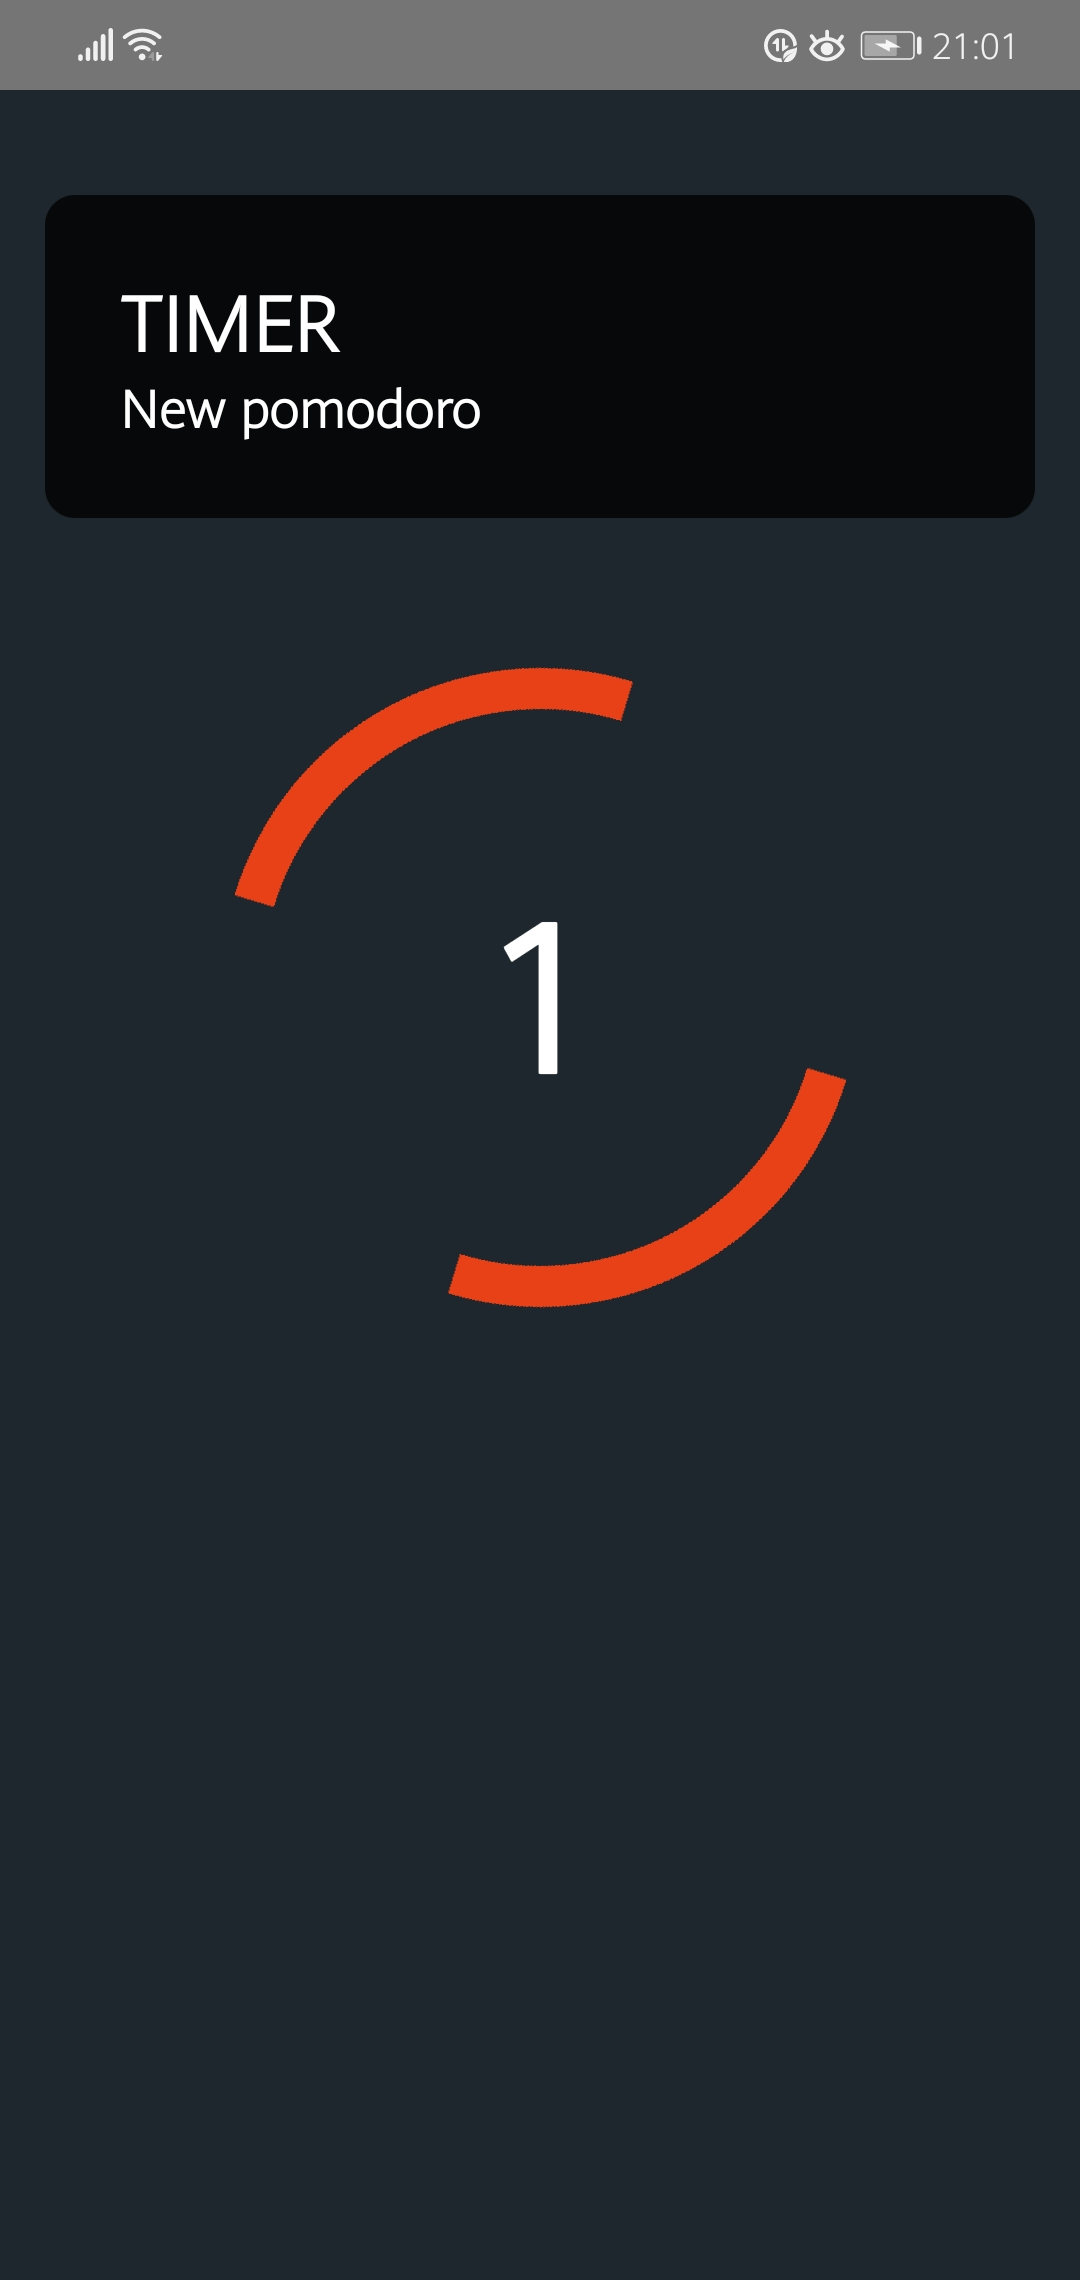
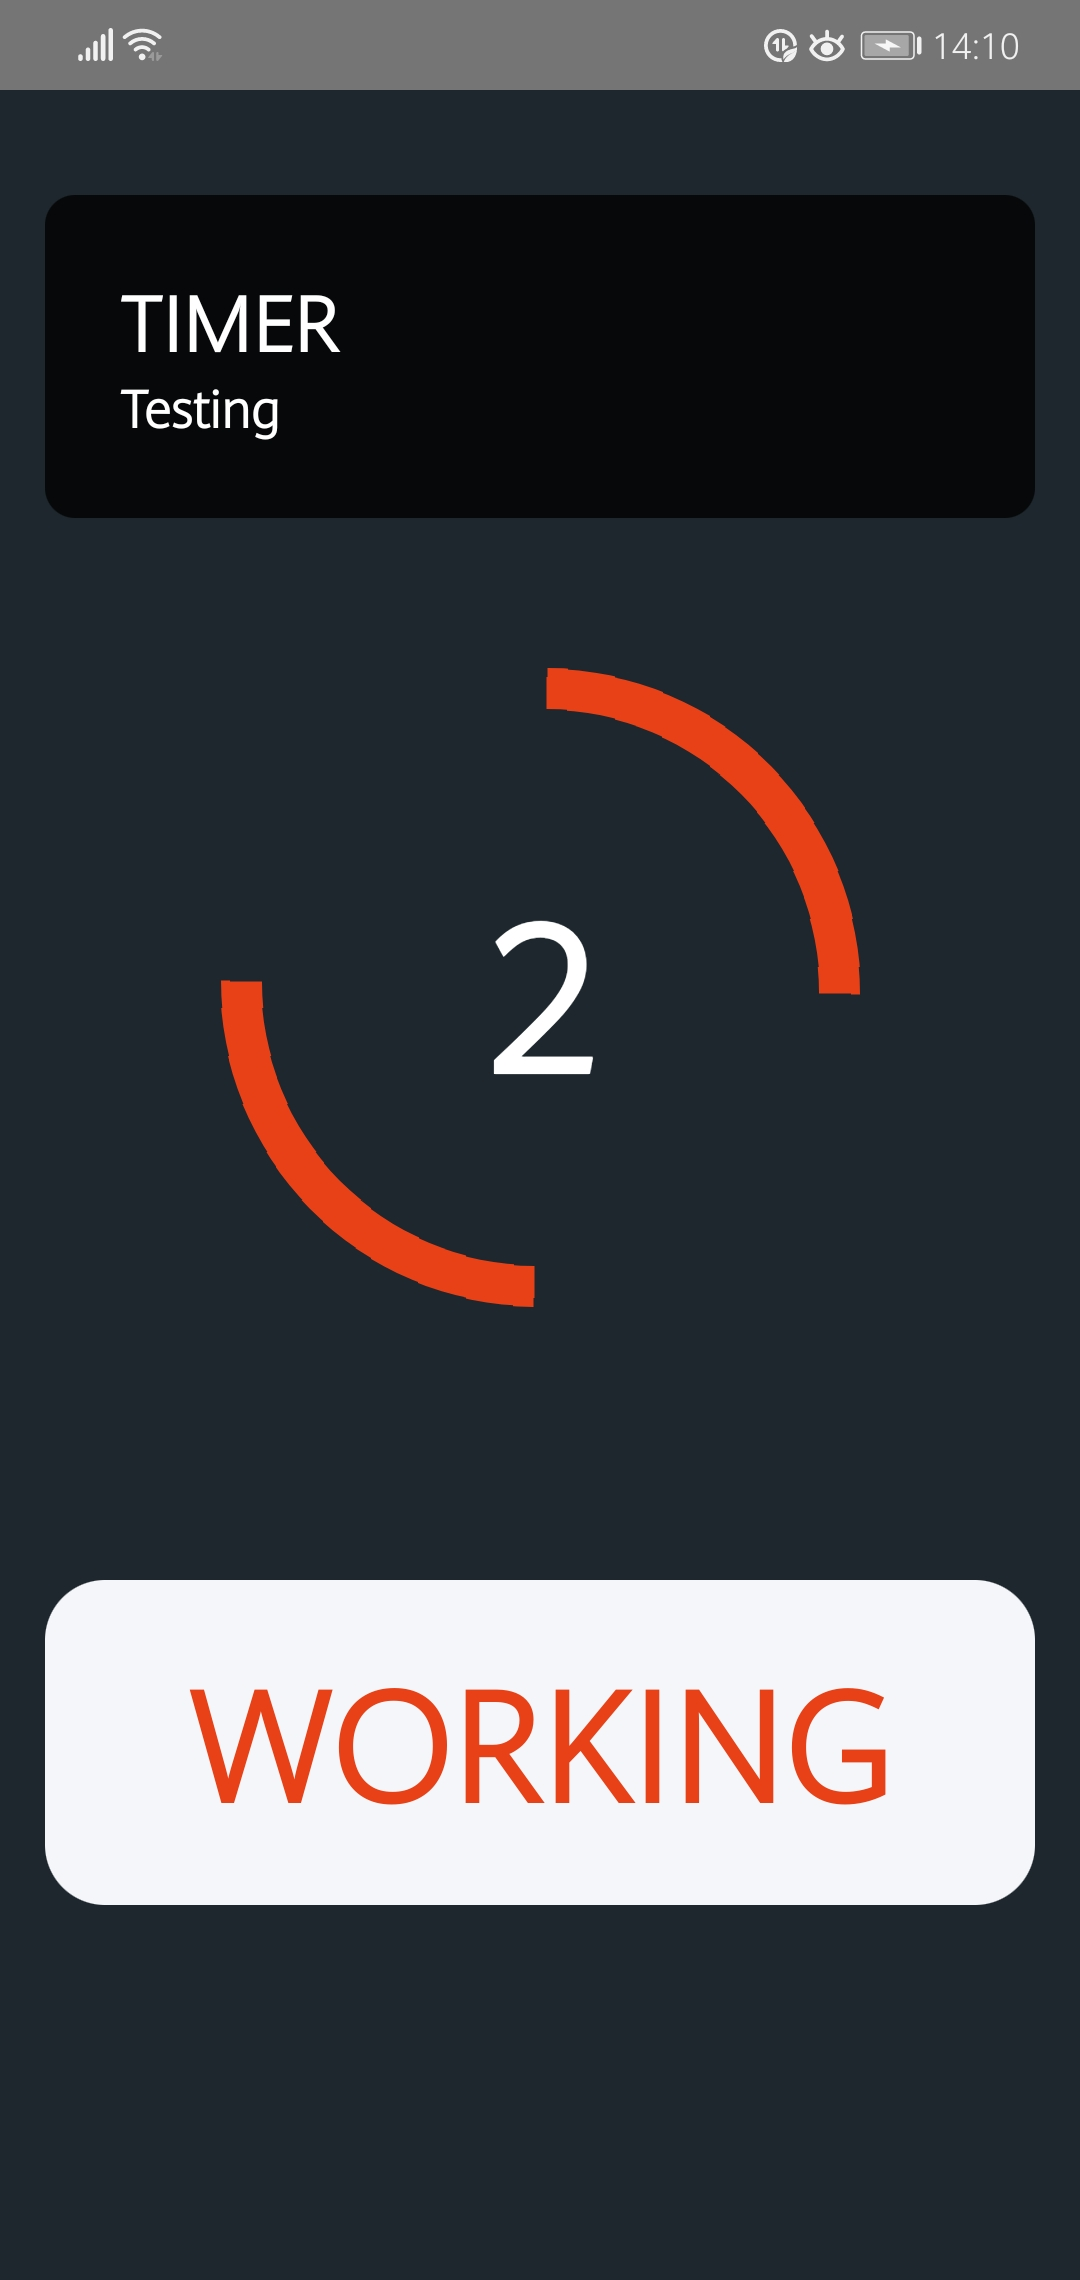
feat: introducing timer seconds counter and current stage title. fix: removed everything about useless advancedMode option

diff --git a/LR2/PomodoroTimer/screens/RunTimerScreen.tsx b/LR2/PomodoroTimer/screens/RunTimerScreen.tsx
@@ -1,25 +1,26 @@
-import { Animated, Easing, StyleSheet, Text, View } from 'react-native'
+import { StyleSheet, Text, View } from 'react-native'
 import { ACCENT_RED_COLOR, ITEMS_BG_COLOR } from '../utils/styleConstants'
-import { useDispatch, useSelector } from 'react-redux'
+import { useSelector } from 'react-redux'
 import { RootState } from '../state/store'
 import { Theme } from '../types/Theme'
 import { useIsFocused, useNavigation } from '@react-navigation/native'
 import React from 'react'
-import { resetCurrentlyEditedTimer } from '../state/slices/general'
 import { getTimerById } from '../utils/getTimerById'
 import { Timer } from '../types/Timer'
 import { storage } from '../state/storage'
-import Svg, { Path } from 'react-native-svg'
 import { TimerAnimation } from '../components/timerAnimation/TimerAnimation'
+import { configureArrayWithStages } from '../utils/configureArrayWithStages'
+import { StageName } from '../types/StageName'
 
 let timerId: number = 0
 
 export const RunTimerScreen = React.memo((): JSX.Element => {
+  const isFocused: boolean = useIsFocused()
 
   const navigation = useNavigation()
-  const {theme} = useSelector((state: RootState) => state.general)
 
-  const {currentlyRunningTimer} = useSelector((state: RootState) => state.general)
+  const { theme } = useSelector((state: RootState) => state.general)
+  const { currentlyRunningTimer } = useSelector((state: RootState) => state.general)
 
   if (currentlyRunningTimer === undefined) navigation.navigate('Home' as never)
   //dispatch(resetCurrentlyEditedTimer()) does not work :(
@@ -30,19 +31,40 @@ export const RunTimerScreen = React.memo((): JSX.Element => {
   const headStyles = [styles.head, theme === Theme.DARK ? styles.headDark : styles.headLight]
   const titleStyles = [styles.title, theme === Theme.DARK ? styles.titleDark : styles.titleLight]
   const subtitleStyles = [styles.subtitle, theme === Theme.DARK ? styles.subtitleDark : styles.subtitleLight]
-
   const circleColor: string = theme === Theme.LIGHT ? 'white' : ACCENT_RED_COLOR
 
   const [seconds, setSeconds] = React.useState<number>(0)
+  const [stageName, setStageName] = React.useState<string>()
+
+  const array = React.useRef<Array<StageName>>([])
+
+  React.useEffect(() => {
+    array.current = configureArrayWithStages(timer)
+  }, [])
+
+  clearTimeout(timerId)
+  timerId = setTimeout(function recursive() {
+    //console.log(seconds, timer.totalSecondsCount)
+    clearTimeout(timerId)
+    if (!isFocused) {
+      clearTimeout(timerId)
+      return
+    }
+    if (seconds > timer.totalSecondsCount) {
+      clearTimeout(timerId)
+      setStageName(name => StageName.FINISHED)
+      return
+    } else {
+      clearTimeout(timerId)
+      setSeconds(sec => sec + 1)
+      timerId = setTimeout(recursive, 1000)
+    }
+  }, 1000)
+
 
   React.useEffect((): void => {
-    clearInterval(timerId)
-    timerId = setTimeout(function recursive () {
-      setSeconds(sec => sec + 1)
-      clearInterval(timerId)
-      timerId = setTimeout(recursive, 1000)
-    }, 1000)
-  }, [])
+    setStageName(stage => array.current[seconds])
+  }, [seconds])
 
 
   return (
@@ -51,8 +73,9 @@ export const RunTimerScreen = React.memo((): JSX.Element => {
         <Text style={titleStyles}>TIMER</Text>
         <Text style={subtitleStyles}>{timer.title}</Text>
       </View>
-      <TimerAnimation color={theme === Theme.DARK ? ACCENT_RED_COLOR : 'white'}/>
+      <TimerAnimation color={circleColor} />
       <Text style={styles.timePassed}>{seconds}</Text>
+      <Text style={styles.stageName}>{stageName}</Text>
     </View>
   )
 }, (): boolean => true)
@@ -95,7 +118,7 @@ const styles = StyleSheet.create({
     width: '100%',
     fontWeight: '900',
     marginRight: 'auto',
-    textAlign: 'left',
+    textAlign: 'left'
   },
 
   titleLight: {
@@ -111,7 +134,7 @@ const styles = StyleSheet.create({
     width: '100%',
     fontWeight: '900',
     marginRight: 'auto',
-    textAlign: 'left',
+    textAlign: 'left'
   },
 
   subtitleLight: {
@@ -127,5 +150,19 @@ const styles = StyleSheet.create({
     fontWeight: '900',
     color: 'white',
     marginTop: -150
+  },
+
+  stageName: {
+    fontSize: 60,
+    fontWeight: '900',
+    //color: 'white',
+    marginTop: 150,
+    padding: 20,
+    backgroundColor: ITEMS_BG_COLOR,
+    color: ACCENT_RED_COLOR,
+    width: '100%',
+    borderRadius: 20,
+    textAlign: 'center',
+    textTransform: 'uppercase'
   }
 })

diff --git a/LR2/PomodoroTimer/components/timersList/TimersList.tsx b/LR2/PomodoroTimer/components/timersList/TimersList.tsx
@@ -7,16 +7,11 @@ import { useSelector } from 'react-redux'
 import { Theme } from '../../types/Theme'
 import { FlashList } from '@shopify/flash-list'
 import { TimersListItem } from './TimersListItem'
-import { MAX_TIMERS_ALLOWED_ADVANCED_MODE, MAX_TIMERS_ALLOWED_STANDARD_MODE } from '../../utils/appConstants'
+import { MAX_TIMERS_ALLOWED } from '../../utils/appConstants'
 import { showMessage } from 'react-native-flash-message'
 import { configureNewTimer } from '../../utils/configureNewTimer'
 import { RootState } from '../../state/store'
 import { useIsFocused } from '@react-navigation/native'
-
-interface TimersListProps {
-  setList: any
-  updateFromStorage: () => void
-}
 
 
 export const TimersList = (): JSX.Element => {
@@ -37,11 +32,7 @@ export const TimersList = (): JSX.Element => {
     isFocused && updateFromStorage()
   }, [isFocused])
 
-  //removeAllTimers(storage)
-  // @ts-ignore
-  const { theme } = useSelector(state => state.general)
-  const { advancedModeOn } = useSelector((state: RootState) => state.general)
-
+  const { theme } = useSelector((state: RootState) => state.general)
 
   const noItemStyles = [styles.noItems, theme === Theme.DARK ? styles.noItemsDark : styles.noItemsLight]
   const titleStyles = [styles.title, theme === Theme.DARK ? styles.titleDark : styles.titleLight]
@@ -49,37 +40,21 @@ export const TimersList = (): JSX.Element => {
 
   const addNewItemButtonClickHandler = React.useCallback((): void => {
     Vibration.vibrate(20)
-    if (!advancedModeOn) { // standard mode
-      if (list.length + 1 > MAX_TIMERS_ALLOWED_STANDARD_MODE) {
-        showMessage({
-          message: `Standard mode allows to create not more than ${MAX_TIMERS_ALLOWED_STANDARD_MODE} timers`,
-          description: '',
-          type: 'danger'
-        })
-      } else {
-        setList([...list, configureNewTimer(storage)])
-        showMessage({
-          message: `Added new timer`,
-          description: '',
-          type: 'info', position: 'top'
-        })
-      }
+    if (list.length + 1 > MAX_TIMERS_ALLOWED) {
+      showMessage({
+        message: `Allfather allows to create not more than ${MAX_TIMERS_ALLOWED} timers`,
+        description: '',
+        type: 'danger'
+      })
     } else {
-      if (list.length + 1 > MAX_TIMERS_ALLOWED_ADVANCED_MODE) {
-        showMessage({
-          message: `Even in advanced mode you aren't allowed to create more than ${MAX_TIMERS_ALLOWED_ADVANCED_MODE} timers`,
-          description: '',
-          type: 'danger'
-        })
-      } else {
-        setList([...list, configureNewTimer(storage)])
-        showMessage({
-          message: `Added new timer`,
-          description: '',
-          type: 'info', position: 'top'
-        })
-      }
+      setList([...list, configureNewTimer(storage)])
+      showMessage({
+        message: `Added new timer`,
+        description: '',
+        type: 'info', position: 'top'
+      })
     }
+
   }, [list, setList])
 
   React.useEffect(() => storage.set(TIMERS_LIST_KEY, JSON.stringify(list)), [list])

diff --git a/LR2/PomodoroTimer/components/settingsPanel/SettingsPanel.tsx b/LR2/PomodoroTimer/components/settingsPanel/SettingsPanel.tsx
@@ -26,14 +26,6 @@ export const SettingsPanel = React.memo((): JSX.Element => {
     dispatch(setTheme(is ? Theme.DARK : Theme.LIGHT))
   }
 
-  const { advancedModeOn } = useSelector(state => state.general)
-  const [isAdvancedModeOn, setIsAdvancedModeOn] = React.useState<boolean>(advancedModeOn)
-  const handleModeTogglerChange = (is: boolean) => {
-    Vibration.vibrate(20)
-    setIsAdvancedModeOn(is)
-    dispatch(setMode(is))
-  }
-
   const clickButtonClearDataHandler = React.useCallback((): void => {
     Alert.alert(
       'Confirmation',
@@ -93,19 +85,6 @@ export const SettingsPanel = React.memo((): JSX.Element => {
         />
       </View>
 
-      <View style={rowStyles}>
-        <Text style={rowTitleStyles}>Enable advanced mode</Text>
-        <Switch
-          trackColor={{
-            true: theme === Theme.DARK ? 'rgba(255, 255, 255, 0.8)' : '#767577',
-            false: theme === Theme.DARK ? 'rgba(255, 255, 255, 0.8)' : '#767577'
-          }}
-          thumbColor={ACCENT_RED_COLOR}
-          onValueChange={handleModeTogglerChange}
-          value={isAdvancedModeOn}
-          style={styles.toggler}
-        />
-      </View>
       <View style={rowStyles}>
         <TouchableOpacity style={buttonStyles} onPress={clickButtonClearDataHandler}>
           <Text style={buttonTextStyles}>Clear all timers data</Text>

diff --git a/LR2/PomodoroTimer/components/editTimerPanel/EditCounter.tsx b/LR2/PomodoroTimer/components/editTimerPanel/EditCounter.tsx
@@ -1,6 +1,6 @@
 import React from 'react'
 import { StyleSheet, Text, TextInput, TouchableOpacity, View } from 'react-native'
-import { ACCENT_RED_COLOR } from '../../utils/styleConstants'
+import { ACCENT_RED_COLOR, ITEMS_BG_COLOR } from '../../utils/styleConstants'
 import { showMessage } from 'react-native-flash-message'
 
 
@@ -22,6 +22,10 @@ export const EditCounter = React.memo((props: EditCounterProps): JSX.Element => 
       return c
     })
   }, [setCounter, props.maxAccepted])
+
+  React.useEffect((): void => {
+    props.onChange(counter)
+  }, [counter])
 
 
   return (
@@ -82,6 +86,6 @@ const styles = StyleSheet.create({
     // borderColor: 'blue',
     // borderWidth: 1,
     // borderStyle: 'solid',
-    textAlignVertical: 'center'
+    textAlignVertical: 'center',
   }
 })

diff --git a/LR2/PomodoroTimer/state/slices/general.ts b/LR2/PomodoroTimer/state/slices/general.ts
@@ -22,13 +22,9 @@ const generalSlice = createSlice<GeneralAppState, any, any>({
       state.theme = action.payload
       updateGeneralAppStateInStorage(storage, state)
     },
-    setMode(state: GeneralAppState, action: PayloadAction<boolean>): void {
-      state.advancedModeOn = action.payload
-      updateGeneralAppStateInStorage(storage, state)
-    },
     resetState(state: GeneralAppState): void {
-      state.advancedModeOn = false
       state.theme = Theme.LIGHT
+      updateGeneralAppStateInStorage(storage, state)
     },
     setRunningTimer(state: GeneralAppState, action: PayloadAction<string>): void {
       state.currentlyRunningTimer = action.payload

diff --git a/LR2/PomodoroTimer/components/editTimerPanel/EditTimerPanel.tsx b/LR2/PomodoroTimer/components/editTimerPanel/EditTimerPanel.tsx
@@ -97,6 +97,16 @@ export const EditTimerPanel = React.memo((): JSX.Element => {
   }, [timer])
 
   const onRunButtonPress = React.useCallback((): void => {
+    Vibration.vibrate(20)
+    const updated: Timer = getUpdatedTimerAfterChangeAndSave(timer, {
+      title: editedTitle.current,
+      workSeconds: editedWorkSeconds.current,
+      restSeconds: editedRestSeconds.current,
+      prepareSeconds: editedPrepareSeconds.current,
+      cyclesCount: editedCyclesCount.current
+    })
+
+    updateTimerInStorage(storage, updated)
     dispatch(setRunningTimer(timer.id))
     navigation.navigate('RunTimer' as never)
   }, [timer])

diff --git a/LR2/PomodoroTimer/utils/configureArrayWithStages.ts b/LR2/PomodoroTimer/utils/configureArrayWithStages.ts
@@ -1,0 +1,19 @@
+import { Timer } from '../types/Timer'
+import { StageName } from '../types/StageName'
+
+
+export const configureArrayWithStages = (timer: Timer): Array<StageName> => {
+  const response: Array<StageName> = [StageName.PREPEARE]
+  for (let counter = 0; counter < timer.prepareSeconds; ++counter)
+    response.push(StageName.PREPEARE)
+
+  for (let cycle = 0; cycle < timer.cyclesCount; ++cycle) {
+    for (let work = 0; work < timer.workSeconds; ++work)
+      response.push(StageName.WORK)
+
+    for (let rest = 0; rest < timer.restSeconds; ++rest)
+      response.push(StageName.REST)
+  }
+
+  return response
+}

diff --git a/LR2/PomodoroTimer/utils/getUpdatedTimerAfterChangeAndSave.ts b/LR2/PomodoroTimer/utils/getUpdatedTimerAfterChangeAndSave.ts
@@ -1,4 +1,5 @@
 import { Timer } from '../types/Timer'
+import { getTotalTimerSeconds } from './getTotalTimerSeconds'
 
 interface EditedTimerParameters {
   title: string
@@ -17,6 +18,7 @@ export const getUpdatedTimerAfterChangeAndSave = (initial: Timer, editedParamete
   response.restSeconds = editedParameters.restSeconds
   response.workSeconds = editedParameters.workSeconds
   response.cyclesCount = editedParameters.cyclesCount
+  response.totalSecondsCount = getTotalTimerSeconds(response)
 
   return response
 }

diff --git a/LR2/PomodoroTimer/utils/getTotalTimerSeconds.ts b/LR2/PomodoroTimer/utils/getTotalTimerSeconds.ts
@@ -1,0 +1,7 @@
+import { Timer } from '../types/Timer'
+
+
+export const getTotalTimerSeconds = (timer: Timer): number => {
+  console.log('cycles count:' , timer.cyclesCount)
+  return timer.prepareSeconds + timer.cyclesCount * (timer.workSeconds + timer.restSeconds)
+}

diff --git a/LR2/PomodoroTimer/types/GeneralAppState.ts b/LR2/PomodoroTimer/types/GeneralAppState.ts
@@ -5,5 +5,4 @@ export interface GeneralAppState {
   currentlyEditedTimer: string | undefined
   currentlyRunningTimer: string | undefined
   theme: Theme
-  advancedModeOn: boolean
 }

diff --git a/LR2/PomodoroTimer/utils/appConstants.ts b/LR2/PomodoroTimer/utils/appConstants.ts
@@ -1,2 +1,1 @@
-export const MAX_TIMERS_ALLOWED_STANDARD_MODE: number = 4
-export const MAX_TIMERS_ALLOWED_ADVANCED_MODE: number = 15
+export const MAX_TIMERS_ALLOWED: number = 5

diff --git a/LR2/PomodoroTimer/types/StageName.ts b/LR2/PomodoroTimer/types/StageName.ts
@@ -1,0 +1,6 @@
+export enum StageName {
+  PREPEARE = 'Preparing',
+  REST = 'Resting',
+  WORK = 'Working',
+  FINISHED = 'Finished'
+}
